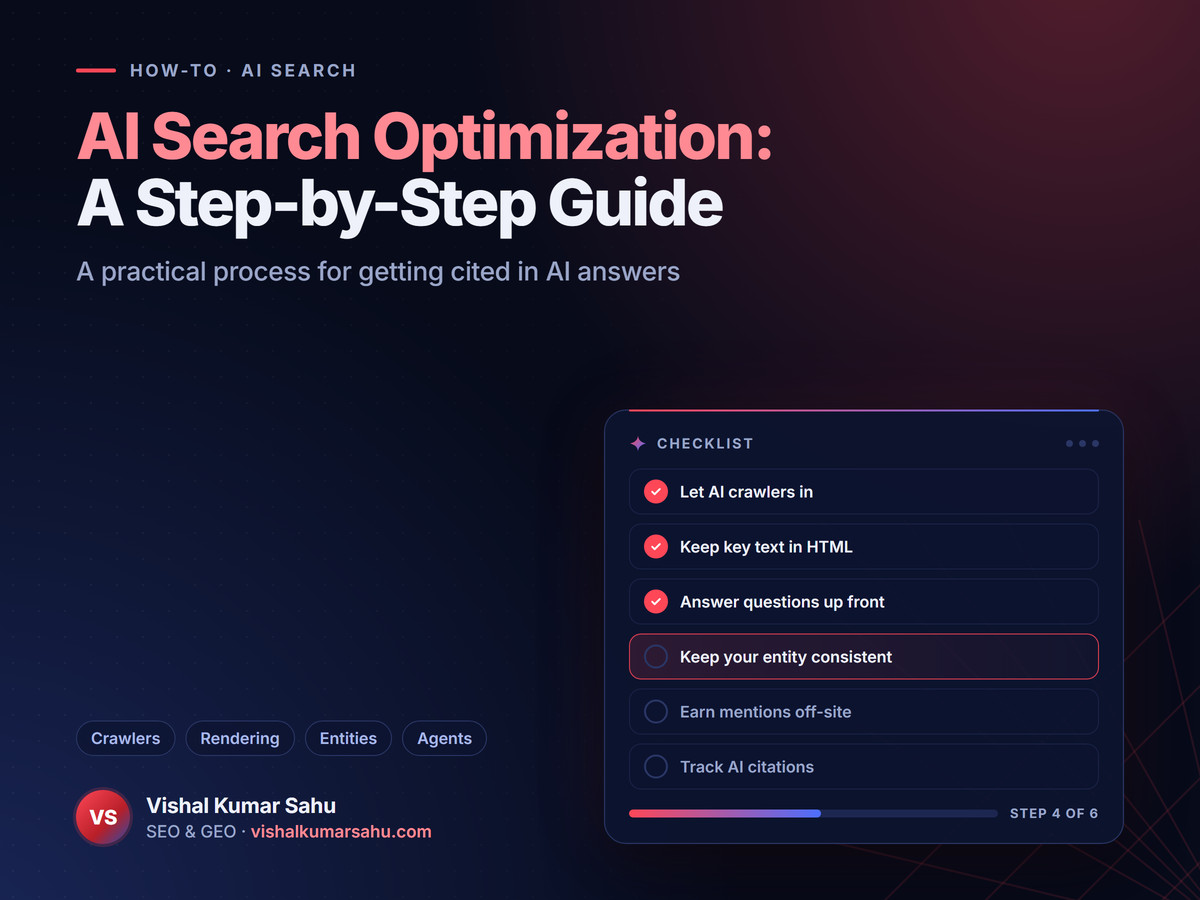
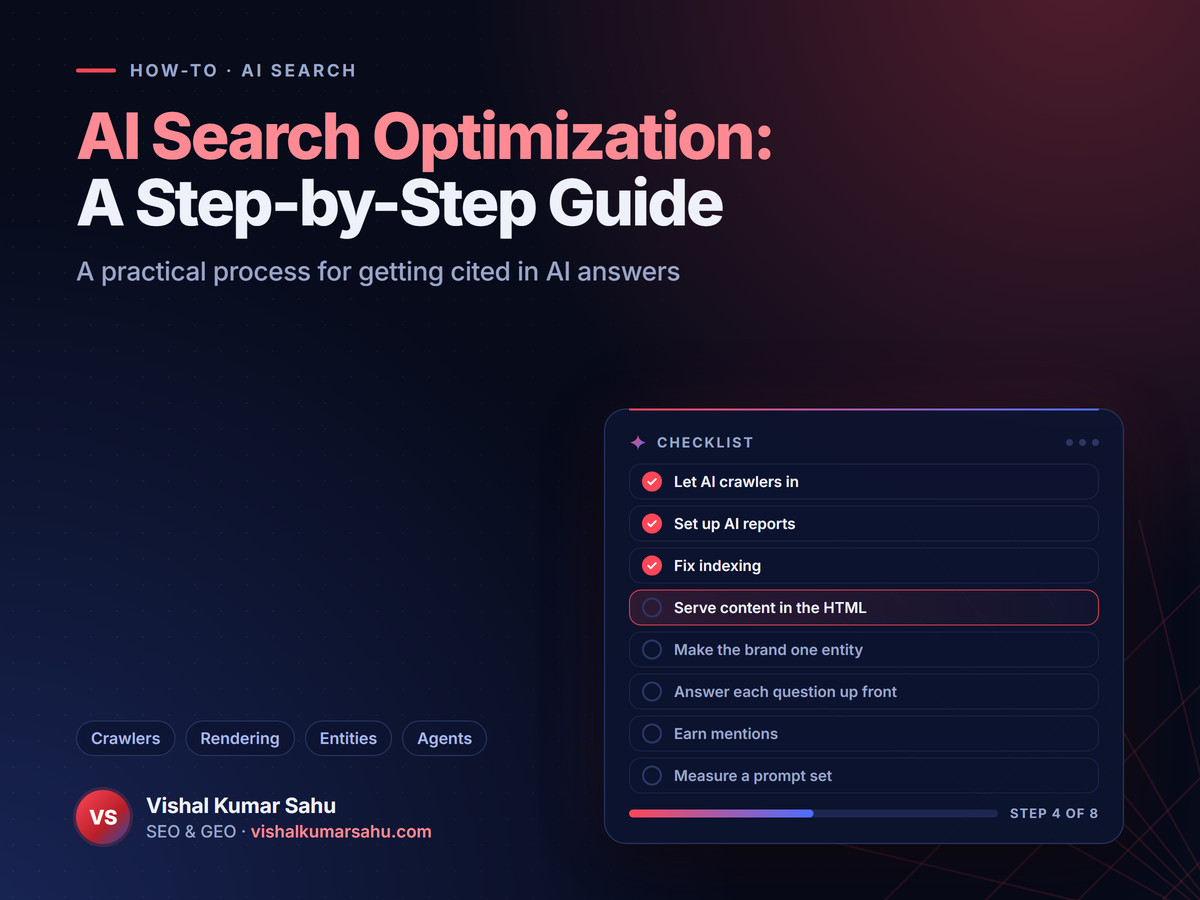
Fix issues found in the go-live audit of the AI search cluster
- Post 4: social and structured-data images now show all eight steps
- Post 7: Scrunch tracks nine platforms including Grok, Ahrefs and
  Semrush do describe how they collect answers, AthenaHQ's engine count
  matches its own page, Profound's coverage is attributed to Profound
- Post 4: URL Inspection shows rendered HTML, the 24-hour robots.txt
  figure is no longer a crawl deadline, small sites may not see Google's
  AI report yet, and prompt runs match post 6's cadence
- Posts 1 and 3: llms.txt wording, a self-contained FAQ answer, a
  grammatical anchor and Microsoft's list labelled correctly
- Posts 1, 3, 4 and 6: short direct answers under each H2
- Post 5: crawler IP list links are explicit https links
- Blog: in-site links open posts at the top (data-scroll-behavior) and
  the selected tag filter meets contrast in dark mode
- llms.txt: not every case study has numbers

Changed region(s): [[0.5242, 0.5289, 0.925, 0.8711], [0.5242, 0.4356, 0.925, 0.4978]]

diff --git a/app/data/posts/ai-search-optimization.ts b/app/data/posts/ai-search-optimization.ts
@@ -10,7 +10,7 @@ export const aiSearchOptimization: BlogPost = {
   excerpt:
     "AI search optimization in 8 steps: crawler access, Google and Bing AI reports, indexing, entity schema and prompts, each with a check, plus agentic SEO.",
   summary:
-    "AI search optimization is the work of making a site and brand easy for Google AI Overviews and AI Mode, ChatGPT search, Perplexity and Microsoft Copilot to crawl, understand and cite. The process takes eight steps, each with a check that it worked, from letting AI crawlers past your CDN to measuring a fixed set of prompts monthly.",
+    "AI search optimization is the work of making a site and brand easy for Google AI Overviews and AI Mode, ChatGPT search, Perplexity and Microsoft Copilot to crawl, understand and cite. The process takes eight steps, each with a check that it worked, from letting AI crawlers past your CDN to measuring a fixed prompt set over repeated runs.",
   content: `
 When LambdaTest became TestMu AI, I ran the SEO for [the rebrand](/seo#rebrand-seo-migration): redirect maps, sitemap and robots.txt cleanup, Organization schema, and updated profiles on Wikidata, G2, LinkedIn and GitHub so the old name and the new one resolve to the same company.
 
@@ -30,13 +30,13 @@ You optimize for AI search in eight steps: let AI crawlers in, set up Google's a
 
 | Step | Where you do it | How to check it worked |
 | --- | --- | --- |
-| 1. Let AI crawlers in | robots.txt, plus your CDN or firewall (in Cloudflare: Security > Settings > AI Crawler and Agent access policies) | Server logs show OAI-SearchBot and PerplexityBot getting 200 responses from IPs on their published lists within about 24 hours of a robots.txt change |
-| 2. Set up Google's and Bing's AI reports | Search Console: Settings > Search generative AI, then the Generative AI performance report; Bing Webmaster Tools: AI Performance; an IndexNow key file | The Search generative AI control includes your site, both AI reports show data, and IndexNow returns HTTP 200 |
+| 1. Let AI crawlers in | robots.txt, plus your CDN or firewall (in Cloudflare: Security > Settings > AI Crawler and Agent access policies) | Server logs show OAI-SearchBot and PerplexityBot getting 200 responses from IPs on their published lists (OpenAI's and Perplexity's systems can take up to about 24 hours to reflect a robots.txt change) |
+| 2. Set up Google's and Bing's AI reports | Search Console: Settings > Search generative AI, then the Generative AI performance report; Bing Webmaster Tools: AI Performance; an IndexNow key file | The Search generative AI control includes your site, both AI reports show data (a site with few AI impressions may not see Google's report yet), and IndexNow returns HTTP 200 |
 | 3. Fix indexing | Search Console's page indexing report and URL Inspection, plus a site crawler | The Google-selected canonical matches yours, and each old URL reaches its final page in one redirect |
 | 4. Serve content in the HTML | Server rendering or static generation in your framework | Key sentences appear in the raw HTML with JavaScript off, and URL Inspection's live test screenshot shows them |
 | 5. Make the brand one entity | Organization markup on the home or about page; Wikidata, G2, LinkedIn and GitHub | The Rich Results Test shows no critical errors, and AI answers describe your brand, and any former name, as one company |
 | 6. Answer each question up front | The pages with the most AI impressions or citations | The first two sentences under each heading answer that heading's question on their own |
-| 7. Earn mentions | Domains cited for your prompts, such as forums and review sites | Monthly re-runs show whether those sources now mention you |
+| 7. Earn mentions | Domains cited for your prompts, such as forums and review sites | Repeated runs, compared month over month, show whether those sources now mention you |
 | 8. Measure a prompt set | A spreadsheet or tracker, plus Search Console and Bing Webmaster Tools | The share of runs that mention or cite you, compared month over month |
 
 Sources: [OpenAI](https://developers.openai.com/api/docs/bots), [Perplexity](https://docs.perplexity.ai/docs/resources/perplexity-crawlers), [Cloudflare](https://developers.cloudflare.com/bots/additional-configurations/block-ai-bots/), [Search Console](https://support.google.com/webmasters/answer/16908024), [Bing Webmaster Tools](https://blogs.bing.com/webmaster/2026/2/Introducing-AI-Performance-in-Bing-Webmaster-Tools-Public-Preview/), [IndexNow](https://www.indexnow.org/documentation), [URL Inspection](https://support.google.com/webmasters/answer/9012289), [Google's Organization markup](https://developers.google.com/search/docs/appearance/structured-data/organization).
@@ -55,7 +55,7 @@ In Search Console, open [Settings > Search generative AI](https://support.google
 
 Bing Webmaster Tools' [AI Performance report](https://blogs.bing.com/webmaster/2026/2/Introducing-AI-Performance-in-Bing-Webmaster-Tools-Public-Preview/) shows how often your content is cited in Microsoft Copilot, AI-generated summaries in Bing and select partner integrations. IndexNow notifies participating search engines when content is added, updated or removed, which Microsoft says "helps keep information fresh across search and AI experiences." Set up [IndexNow](https://www.indexnow.org/documentation) with a CMS plugin, which its [FAQ](https://www.indexnow.org/faq) says to check for first, or with a key file; Google isn't a listed endpoint, so keep sitemaps in Search Console.
 
-You're set up when the Search generative AI control includes your site and both AI reports show data. An IndexNow HTTP 200 only means the URL was received.
+You're set up when the Search generative AI control includes your site and both AI reports show data. Google says a missing report usually means too few impressions in its AI features. An IndexNow HTTP 200 only means the URL was received.
 
 ### Step 3: Fix canonicals, noindex tags and redirect chains
 
@@ -71,7 +71,7 @@ In [Vercel's December 2024 analysis](https://vercel.com/blog/the-rise-of-the-ai-
 
 Server-render the main content, titles and descriptions, and menus, as Vercel advises. At TestMu AI, 51 free-tool pages launched with no body copy, and I wrote their content and schema.
 
-To check, find your key sentences in the raw HTML or with JavaScript turned off. In URL Inspection, run a live test and open View tested page for a screenshot of the rendered page and the raw HTML.
+To check, find your key sentences in the raw HTML or with JavaScript turned off. In URL Inspection, a live test's View tested page shows the page as Google rendered it, including content added by JavaScript.
 
 ### Step 5: Make your brand one entity
 
@@ -93,9 +93,9 @@ Test each section by reading its first two sentences alone, then compare those p
 
 List the domains AI answers cite for your prompts, then take part there genuinely and keep review profiles current; Google warns that seeking inauthentic mentions "isn't as helpful as it might seem." In [Ahrefs' November 2026 study](https://ahrefs.com/blog/mention-types-ai-visibility/), Reddit was the strongest signal (a Spearman correlation of about 0.75 with AI mentions), and brands with 10x more webpage mentions got 3.7x more AI mentions, though Ahrefs says it can't show that mentions cause AI visibility.
 
-Step 8's monthly prompt runs show whether those sources start to mention you.
+Step 8's prompt runs show whether those sources start to mention you.
 
-### Step 8: Measure a fixed prompt set monthly
+### Step 8: Measure a fixed prompt set over repeated runs
 
 A prompt set is a fixed list of buyer questions you run through ChatGPT, Perplexity and other AI engines on a schedule. My keyword pipeline for TestMu AI cut 1,652 keywords from 19 competitor domains to 14 topic clusters and 40 quick wins, and a prompt set needs the same narrowing. My [AI visibility](/blogs/ai-visibility) guide shows how to build the set and what to measure, and my [GEO tools](/blogs/geo-tools) post compares trackers.
 
@@ -133,7 +133,9 @@ Run Lighthouse's experimental [Agentic Browsing](https://developer.chrome.com/do
 
 ## Where should you start with AI search optimization?
 
-Start AI search optimization with the settings that can block everything else: the AI crawler rules in your CDN or firewall, and the Search generative AI control in Search Console. Then run URL Inspection on, say, your ten most important pages, and write a starting set of 20 to 30 buyer prompts. Run each prompt a few times in ChatGPT, Perplexity and Google AI Mode, and note every cited domain. Rewrite pages after that, starting with the ones you expected those prompts to cite.
+Start AI search optimization with the settings that can block everything else: the AI crawler rules in your CDN or firewall, and the Search generative AI control in Search Console.
+
+Then run URL Inspection on, say, your ten most important pages, and write a starting set of 20 to 30 buyer prompts. Run each prompt a few times in ChatGPT, Perplexity and Google AI Mode, and note every cited domain. Rewrite pages after that, starting with the ones you expected those prompts to cite.
 `.trim(),
   tags: ["AI Search", "SEO", "GEO"],
   readingTime: "12 min read",
@@ -149,7 +151,7 @@ Start AI search optimization with the settings that can block everything else: t
     {
       question: "How do I optimize for AI search?",
       answer:
-        "To optimize a site for AI search, start with access: let OAI-SearchBot, PerplexityBot, Googlebot and Bingbot through robots.txt and your CDN, fix canonicals and redirects, and keep main content in the server HTML. Then keep brand details consistent, answer questions up front, earn genuine mentions and track a fixed prompt set monthly.",
+        "To optimize a site for AI search, start with access: let OAI-SearchBot, PerplexityBot, Googlebot and Bingbot through robots.txt and your CDN, fix canonicals and redirects, and keep main content in the server HTML. Then keep brand details consistent, answer questions up front, earn genuine mentions and track a fixed prompt set over repeated runs.",
     },
     {
       question: "What is AI search optimization called?",

diff --git a/app/data/posts/geo-tools.ts b/app/data/posts/geo-tools.ts
@@ -35,8 +35,8 @@ AI visibility tools send your prompts to each AI engine on a schedule, through t
 | Peec AI | "UI scraping" that reflects "the reality for a logged-out user" | "once every 24 hours" |
 | Scrunch | "browser automation and official platform APIs" | Daily for a new prompt's first 14 days, then every 72 hours by default |
 | Conductor | "official LLM APIs" | Not stated on the linked page |
-| Ahrefs Brand Radar | Not stated on the linked page | Index "re-tested monthly on a 90-day reporting window"; custom prompts daily, weekly or monthly |
-| Semrush AI Visibility Toolkit | Not stated on the linked page | Prompt Tracking daily; Brand Performance reports weekly |
+| Ahrefs Brand Radar | Runs prompts "through each AI platform and stores the responses"; also tracks searches that "trigger an AI answer inside Google Search"; browser or API not stated | Index "re-tested monthly on a 90-day reporting window"; custom prompts daily, weekly or monthly |
+| Semrush AI Visibility Toolkit | Brand Performance reports run "a vast collection of common queries" through "LLMs like ChatGPT and Google's AI Mode"; browser or API not stated | Prompt Tracking daily; Brand Performance reports weekly |
 | Similarweb AI Citation Analysis | Not stated on the linked page | Citations tracked daily |
 
 Sources: [Profound](https://www.tryprofound.com/features/answer-engine-insights), [SE Visible](https://visible.seranking.com/), [Peec AI docs](https://docs.peec.ai/intro-to-peec-ai), [Peec AI](https://peec.ai/geo-report), [Scrunch](https://scrunch.com/faqs/what-methods-does-scrunch-use-to-collect-data-from-ai-platforms), [Conductor](https://www.conductor.com/lp/enterprise-ai-visibility-optimization/), [Ahrefs](https://ahrefs.com/brand-radar), [Semrush](https://www.semrush.com/kb/1493-ai-visibility-toolkit), [Similarweb](https://aisearch.similarweb.com/ai-brand-visibility/citation-analysis/).
@@ -61,8 +61,8 @@ The table leaves out prices; check current pricing on each paid tool's site.
 | Profound | Dedicated tracker | Daily prompt tracking across many engines | ChatGPT, Perplexity, Claude, Google AI Overviews, Google AI Mode, Google Gemini, Exa, Muse Spark, Qwen, DeepSeek | Visibility score, share of voice, sentiment, citation sources, competitor rankings | Free trial |
 | Peec AI | Dedicated tracker | A long list of engines and Looker Studio reports | ChatGPT, Perplexity, Gemini, AI Overviews, AI Mode, Copilot, Claude, Grok, DeepSeek, Muse Spark, Mistral, Qwen, Naver AI Briefing | Visibility (share of chats naming you), position | Free GEO report; 7-day trial |
 | OtterlyAI | Dedicated tracker | Prompt tracking plus free utilities and a public API | ChatGPT, AI Overviews, AI Mode, Gemini, Claude, Perplexity, Copilot | Brand mentions, website citations | 7-day trial; free tools |
-| Scrunch | Dedicated tracker | Full answer text and aggregated metrics by API | ChatGPT, Perplexity, Gemini, Claude, AI Mode, AI Overviews, Copilot, Meta AI | Brand presence, sentiment, citations | 7-day trial |
-| AthenaHQ | Dedicated tracker | Starting on a free tier | All plans: ChatGPT, Perplexity, Gemini, AI Overviews, Copilot; paid plans add AI Mode, Claude, Grok, DeepSeek, Meta AI | Prompt and response analysis, sources, competitor insights | Free Essential plan |
+| Scrunch | Dedicated tracker | Full answer text and aggregated metrics by API | ChatGPT, Perplexity, Gemini, Claude, AI Mode, AI Overviews, Copilot, Grok, Meta AI | Brand presence, sentiment, citations | 7-day trial |
+| AthenaHQ | Dedicated tracker | Starting on a free tier | All plans: ChatGPT, Perplexity, Gemini, AI Overviews, Copilot; paid plans add AI Mode, Claude, Grok, DeepSeek, Meta AI (FAQ; the Starter plan card also lists Mistral) | Prompt and response analysis, sources, competitor insights | Free Essential plan |
 | Conductor | Enterprise platform | AI visibility next to web analytics and traditional search data | ChatGPT, Perplexity, Claude, Gemini, Google AI Overviews (through official APIs) | Mentions, citations, sentiment, traffic through GA4 or Adobe | Free AI Visibility Analysis; 3-week trial |
 | BrightEdge AI Catalyst | Enterprise platform | Mentions and citations reported separately | ChatGPT, Perplexity, AI Overviews, AI Mode, Gemini "and other AI platforms" | Mentions Presence, Citations Presence, competitor benchmarks | None stated |
 
@@ -102,7 +102,7 @@ Profound, Peec AI, OtterlyAI, Scrunch and AthenaHQ are LLM tracking tools built 
 
 ### Profound
 
-Profound, the tracker I set up for TestMu AI, queries ten AI platforms, from ChatGPT and Perplexity to Qwen and DeepSeek. Its [Answer Engine Insights](https://www.tryprofound.com/features/answer-engine-insights) page lists "visibility scores and share of voice, brand sentiment and keyword themes, citation sources and their authority, and competitor rankings," with CSV export, and [Agent Analytics](https://www.tryprofound.com/features/agent-analytics) tracks "when, how often, and which AI bots access your content."
+Profound, the tracker I set up for TestMu AI, says it queries ten AI platforms, from ChatGPT and Perplexity to Qwen and DeepSeek. Its [Answer Engine Insights](https://www.tryprofound.com/features/answer-engine-insights) page lists "visibility scores and share of voice, brand sentiment and keyword themes, citation sources and their authority, and competitor rankings," with CSV export, and [Agent Analytics](https://www.tryprofound.com/features/agent-analytics) tracks "when, how often, and which AI bots access your content."
 
 ### Peec AI
 
@@ -114,11 +114,11 @@ Profound, the tracker I set up for TestMu AI, queries ten AI platforms, from Cha
 
 ### Scrunch
 
-Scrunch tracks brand presence on [eight AI platforms](https://scrunch.com/faqs/which-ai-platforms-and-llms-can-scrunch-track-and-monitor), including Meta AI, and [says it](https://scrunch.com/faqs/how-accurate-is-scrunch-at-tracking-brand-presence-across-llms) counts only "explicit brand mentions," so a citation alone doesn't register as a mention. Its [responses API](https://scrunch.com/faqs/what-apis-does-scrunch-offer-and-how-do-they-work) returns the full text of each AI answer, with citations, competitor presence and metadata.
+Scrunch tracks brand presence on [nine AI platforms](https://scrunch.com/faqs/which-ai-platforms-and-llms-can-scrunch-track-and-monitor), including Grok and Meta AI, and [says it](https://scrunch.com/faqs/how-accurate-is-scrunch-at-tracking-brand-presence-across-llms) counts only "explicit brand mentions," so a citation alone doesn't register as a mention. Its [responses API](https://scrunch.com/faqs/what-apis-does-scrunch-offer-and-how-do-they-work) captures "full AI answers, citations, sentiment, competitors, and metadata" for every prompt run.
 
 ### AthenaHQ
 
-[AthenaHQ](https://athenahq.ai/) has a free Essential plan with prompt and response analysis and competitor insights, while paid plans add five engines, including Google AI Mode and Claude. AthenaHQ says it "tells you what to fix." API access is a paid add-on.
+[AthenaHQ](https://athenahq.ai/) has a free Essential plan with prompt and response analysis and competitor insights, while paid plans add engines including Google AI Mode and Claude. AthenaHQ says it "tells you what to fix." API access is a paid add-on.
 
 ## Which AI visibility platforms suit enterprise teams?
 
@@ -136,7 +136,7 @@ Conductor and BrightEdge suit enterprise teams that want AI visibility inside a 
 
 Choose an AI visibility tool by testing, during a trial, which engines your plan covers, how often prompts rerun, whether mentions and citations are counted separately, how answers are collected and what you can export.
 
-1. Check the engines on your plan. AthenaHQ adds five engines only on paid plans, SE Visible's FAQ and plan list disagree on Claude and Copilot, and Semrush's engine list differs by product.
+1. Check the engines on your plan. AthenaHQ adds Google AI Mode, Claude and other engines only on paid plans, SE Visible's FAQ and plan list disagree on Claude and Copilot, and Semrush's engine list differs by product.
 2. Ask how often prompts rerun: daily for Profound, SE Visible, Peec AI and Semrush's Prompt Tracking, and monthly for Ahrefs' prebuilt index.
 3. Check whether mentions and citations get their own numbers; [Ahrefs](https://ahrefs.com/ai-visibility-checker) says "Brand Radar tracks both separately." Merged counts hide ghost citations (links in answers that never name the brand), which made up 61.7% of 3,981 domain appearances across 115 prompts in a [June 2026 Semrush and Growth Memo study](https://www.semrush.com/blog/the-ghost-citations-study/).
 4. Give share metrics more weight than position. Semrush, Peec AI, SE Visible and [Profound](https://docs.tryprofound.com/answer-engine-insights/about) all report a position metric, though Profound [also says](https://www.tryprofound.com/features/answer-engine-insights) "AI platforms don't return the same answer twice." Read any position next to your [share of runs](/blogs/ai-visibility).

diff --git a/app/data/posts/what-is-aeo.ts b/app/data/posts/what-is-aeo.ts
@@ -22,7 +22,9 @@ Much of what Google and Microsoft now say about AI answers repeats featured-snip
 
 ## What is AEO (answer engine optimization)?
 
-Answer engine optimization (AEO) is the practice of structuring content so search engines and AI assistants can use it as the direct answer to a question. An answer engine is a search system that replies to a question directly, usually linking to its source. Answer engines include ChatGPT search, Perplexity, Microsoft Copilot and Google Search, which answers questions in featured snippets, AI Overviews (AI-written summaries above some results) and AI Mode (Google's chat-style search).
+Answer engine optimization (AEO) is the practice of structuring content so search engines and AI assistants can use it as the direct answer to a question. An answer engine is a search system that replies to a question directly, usually linking to its source.
+
+Answer engines include ChatGPT search, Perplexity, Microsoft Copilot and Google Search, which answers questions in featured snippets, AI Overviews (AI-written summaries above some results) and AI Mode (Google's chat-style search).
 
 [Wikipedia's article](https://en.wikipedia.org/wiki/Generative_engine_optimization) on generative engine optimization (November 12, 2026 revision) says usage "varies across practitioners, vendors, and publications, with no consensus definition." [Google's 2026 guide](https://developers.google.com/search/docs/fundamentals/ai-optimization-guide) to its generative AI features calls AEO and GEO "terms you may see used to describe work specifically focused on improving visibility in AI search experiences." The table compares how five sources describe AEO and relate it to GEO.
 
@@ -42,7 +44,9 @@ In customs, AEO means Authorised Economic Operator. The [EU's AEO programme](htt
 
 ## Is AEO the same as GEO?
 
-AEO and GEO mostly describe the same work in 2026. Wikipedia treats AEO as another name for [generative engine optimization](/blogs/generative-engine-optimization) (GEO), the practice of improving visibility in AI-generated answers, and Profound calls the two "the same thing". One Microsoft Advertising retail guide defined AEO for AI agents and assistants and GEO for generative AI search, though its [later edition](https://about.ads.microsoft.com/content/dam/sites/msa-about/global/common/content-lib/pdf/from-discovery-to-influence-a-guide-to-geo.pdf), retitled "A guide to GEO," drops AEO. My [GEO vs SEO](/blogs/geo-vs-seo) post compares all three terms side by side.
+AEO and GEO mostly describe the same work in 2026.
+
+Wikipedia treats AEO as another name for [generative engine optimization](/blogs/generative-engine-optimization) (GEO), the practice of improving visibility in AI-generated answers, and Profound calls the two "the same thing". One Microsoft Advertising retail guide defined AEO for AI agents and assistants and GEO for generative AI search, though its [later edition](https://about.ads.microsoft.com/content/dam/sites/msa-about/global/common/content-lib/pdf/from-discovery-to-influence-a-guide-to-geo.pdf), retitled "A guide to GEO," drops AEO. My [GEO vs SEO](/blogs/geo-vs-seo) post compares all three terms side by side.
 
 ## Where did answer engine optimization come from?
 
@@ -82,7 +86,7 @@ Google's 2026 guide says "optimizing for generative AI search is optimizing for 
 
 ## How do you optimize content for answer engines?
 
-Optimize content for answer engines by answering each question in one or two sentences right under a heading that asks it, then adding a list or table where one fits. [Microsoft's checklist](https://about.ads.microsoft.com/en/blog/post/october-2025/optimizing-your-content-for-inclusion-in-ai-search-answers) for featured snippets in AI search asks for "concise answers," "structured formatting," "strong headings" and "self-contained phrasing."
+Optimize content for answer engines by answering each question in one or two sentences right under a heading that asks it, then adding a list or table where one fits. [Microsoft's list](https://about.ads.microsoft.com/en/blog/post/october-2025/optimizing-your-content-for-inclusion-in-ai-search-answers) of what makes content eligible for featured snippets in AI search asks for "concise answers," "structured formatting," "strong headings" and "self-contained phrasing."
 
 1. Collect the questions people ask: People Also Ask boxes, where Google says featured snippets can also appear, plus Search Console queries and questions from sales and support calls.
 2. Turn each question into a heading. Microsoft's example swaps a vague "Learn More" for "What Makes This Dishwasher Quieter Than Most Models?"
@@ -103,9 +107,9 @@ Google's [speakable documentation](https://developers.google.com/search/docs/app
 
 ## Where should you start with AEO?
 
-Start AEO with the questions your pages already get impressions for. If a colleague asks "what is AEO", walk them through this check on your own pages.
+Start AEO with the questions your pages already get impressions for, and check which pages Google quotes or links to when it answers each one.
 
-In Google Search Console, pick queries phrased as questions and match each one to the page that should answer it. Search each question on Google and note whether a featured snippet or an AI Overview appears and which pages it links to. Where another page is quoted or linked instead of yours, compare its opening with the first two sentences under your matching heading. Then check that your page's snippet controls aren't keeping it out.
+In Google Search Console, pick queries phrased as questions and match each one to the page that should answer it. Search each question on Google, for example "what is AEO", and note whether a featured snippet or an AI Overview appears and which pages it links to. Where another page is quoted or linked instead of yours, compare its opening with the first two sentences under your matching heading. Then check that your page's snippet controls aren't keeping it out.
 
 Search Console's [generative AI performance report](https://developers.google.com/search/blog/2026/06/gen-ai-performance-reports) shows your impressions in AI Overviews and AI Mode. To track ChatGPT and Perplexity answers over repeated runs, see my guide to [AI visibility](/blogs/ai-visibility), and my comparison of [GEO tools](/blogs/geo-tools) covers the trackers.
 `.trim(),
@@ -116,7 +120,7 @@ Search Console's [generative AI performance report](https://developers.google.co
     "The term AEO was in use by February 2018, when Search Engine Watch described it as the strategy for voice-driven \"answer engines\".",
     "Google stopped showing How-to rich results in September 2023 and FAQ rich results on May 7, 2026, so HowTo and FAQPage markup no longer earn a visible result.",
     "In Google, featured snippets and AI Overview or AI Mode links both require a page that is eligible to show a snippet, so nosnippet, data-nosnippet and max-snippet apply to each.",
-    "Google calls optimizing for generative AI search \"still SEO\", and Microsoft's checklist for featured snippets in AI search asks for concise answers, lists and tables, strong headings and self-contained sentences.",
+    "Google calls optimizing for generative AI search \"still SEO\", and Microsoft's list of what makes content eligible for featured snippets in AI search asks for concise answers, lists and tables, strong headings and self-contained sentences.",
   ],
   faqs: [
     {

diff --git a/app/data/posts/generative-engine-optimization.ts b/app/data/posts/generative-engine-optimization.ts
@@ -20,7 +20,9 @@ The gap between those two numbers is the shortest explanation of generative engi
 
 ## What is generative engine optimization?
 
-Generative engine optimization (GEO) is the work of shaping your pages, and what the rest of the web says about your brand, so that AI systems find your information and cite or mention you in their answers. A generative engine is an AI system that searches for information and writes its own answer from several sources. ChatGPT search, Perplexity, Microsoft Copilot, Gemini and two Google features work this way: AI Overviews, the AI-written summaries above some Google results, and AI Mode, Google's chat-style search.
+Generative engine optimization (GEO) is the work of shaping your pages, and what the rest of the web says about your brand, so that AI systems find your information and cite or mention you in their answers.
+
+A generative engine is an AI system that searches for information and writes its own answer from several sources. ChatGPT search, Perplexity, Microsoft Copilot, Gemini and two Google features work this way: AI Overviews, the AI-written summaries above some Google results, and AI Mode, Google's chat-style search.
 
 The term was introduced in a paper first posted in November 2023, [GEO: Generative Engine Optimization](https://arxiv.org/abs/2311.09735), by Pranjal Aggarwal and five co-authors. The revised version, [published at KDD 2024](https://doi.org/10.1145/3637528.3671900), describes GEO as "a new paradigm where content creators aim to increase their visibility (or impression) in generative engine responses." Microsoft uses the term too, calling its Bing Webmaster Tools report on Copilot citations ["an early step toward Generative Engine Optimization (GEO) tooling."](https://blogs.bing.com/webmaster/2026/2/Introducing-AI-Performance-in-Bing-Webmaster-Tools-Public-Preview/)
 
@@ -94,9 +96,11 @@ For a B2B company the loss is hard to spot. A buyer asks ChatGPT for the best cr
 
 ## Is GEO the same as SEO or AEO?
 
-GEO is not the same as SEO or AEO, but it builds on both. Google's position is that, for its own results, "optimizing for generative AI search is optimizing for the search experience, and thus still SEO." ChatGPT search and Perplexity also crawl and search the web before they answer, so pages they can crawl and index start ahead. The differences are in the goal (cited rather than ranked) and the unit that competes (a passage more than a page), which I compare side by side in my post on [GEO vs SEO](/blogs/geo-vs-seo).
+GEO is not the same as SEO or AEO, but it builds on both. Google's position is that, for its own results, "optimizing for generative AI search is optimizing for the search experience, and thus still SEO."
 
-Answer engine optimization (AEO) is an older term for winning direct answers such as featured snippets and voice results. Many teams now use AEO and GEO interchangeably; my guide to [what is AEO](/blogs/what-is-aeo) explains where they differ.
+ChatGPT search and Perplexity also crawl and search the web before they answer, so pages they can crawl and index start ahead. The differences are in the goal (cited rather than ranked) and the unit that competes (a passage more than a page), which I compare side by side in my post on [GEO vs SEO](/blogs/geo-vs-seo).
+
+Answer engine optimization (AEO) is an older term for winning direct answers such as featured snippets and voice results. Many teams now use AEO and GEO interchangeably; my answer to "[what is AEO](/blogs/what-is-aeo)" explains where they differ.
 
 ## What does GEO work look like in practice?
 
@@ -123,12 +127,14 @@ The most common GEO mistakes are blocking AI crawlers by accident, expecting llm
 
 ## Where should you start with GEO?
 
-Start generative engine optimization by finding out where your brand already appears in AI answers. Pick ten questions your buyers would ask, run them in ChatGPT, Perplexity and Google's AI Overviews or AI Mode, and note every domain that gets cited. Check that robots.txt and your CDN let the AI crawlers in. Then rewrite the top of your most important page so its first two sentences answer its main question.
+Start generative engine optimization by finding out where your brand already appears in AI answers.
+
+Pick ten questions your buyers would ask, run them in ChatGPT, Perplexity and Google's AI Overviews or AI Mode, and note every domain that gets cited. Check that robots.txt and your CDN let the AI crawlers in. Then rewrite the top of your most important page so its first two sentences answer its main question.
 
 That small test shows which sources the engines trust in your category and whether you are one of them.
 `.trim(),
   tags: ["GEO", "AI Search", "SEO"],
-  readingTime: "13 min read",
+  readingTime: "14 min read",
   featured: true,
   keyTakeaways: [
     "Generative engine optimization (GEO) is the practice of getting your content found and cited by AI systems such as ChatGPT, Perplexity and Google AI Overviews.",
@@ -161,12 +167,12 @@ That small test shows which sources the engines trust in your category and wheth
     {
       question: "Do you need llms.txt or special markup for GEO?",
       answer:
-        "No. Google says you don't need AI text files or special schema.org markup for its AI features and that Google Search ignores llms.txt, and OpenAI's and Perplexity's crawler docs don't mention it. Structured data is still worth using for rich results if it matches what is visible on the page.",
+        "No. Google says you don't need AI text files or special schema.org markup for its AI features and that Google Search ignores llms.txt, and OpenAI's and Perplexity's crawler docs don't say their crawlers use it. Structured data is still worth using for rich results if it matches what is visible on the page.",
     },
     {
       question: "Can small websites compete in GEO?",
       answer:
-        "Possibly. The original study only tested pages already in Google's top five, but the lower-ranked ones gained the most: with Cite Sources applied to all five, the fifth-ranked page's visibility rose 115.1% while the top-ranked page's fell 30.3% on average. The authors read this as an opening for small creators and independent businesses.",
+        "Possibly. The 2023 GEO paper (KDD 2024) only tested pages already in Google's top five, but the lower-ranked ones gained the most: when its Cite Sources method, which adds relevant citations from credible sources, was applied to all five, the fifth-ranked page's visibility rose 115.1% while the top-ranked page's fell 30.3% on average. The authors read this as an opening for small creators and independent businesses.",
     },
     {
       question: "How do you measure GEO?",

diff --git a/app/data/posts/ai-visibility.ts b/app/data/posts/ai-visibility.ts
@@ -87,7 +87,9 @@ Choose prompts for AI search tracking from the questions your buyers ask, groupe
 
 ## Why do AI answers change from day to day?
 
-AI answers change from day to day because each run generates a fresh response: the engine often searches the web differently and cites other pages. In [Ahrefs' October 2026 study](https://ahrefs.com/blog/how-stable-are-ai-citations/) of about 37,500 citations tracked for 20 days across five AI tools, at least half disappeared by the next day. ChatGPT repeated the previous day's exact searches only 26% of the time, yet Ahrefs says its data "suggests much of the churn happens after the search, when the AI decides which pages to cite." Roughly 75% of the citations that disappeared at least once came back within the 20 days.
+AI answers change from day to day because each run generates a fresh response: the engine often searches the web differently and cites other pages.
+
+In [Ahrefs' October 2026 study](https://ahrefs.com/blog/how-stable-are-ai-citations/) of about 37,500 citations tracked for 20 days across five AI tools, at least half disappeared by the next day. ChatGPT repeated the previous day's exact searches only 26% of the time, yet Ahrefs says its data "suggests much of the churn happens after the search, when the AI decides which pages to cite." Roughly 75% of the citations that disappeared at least once came back within the 20 days.
 
 [SparkToro's study](https://sparktoro.com/blog/new-research-ais-are-highly-inconsistent-when-recommending-brands-or-products-marketers-should-take-care-when-tracking-ai-visibility/) with Patrick O'Donnell of Gumshoe.ai, an AI-tracking startup, had 600 volunteers run 12 prompts through ChatGPT, Claude and Google's AI a combined 2,961 times in November and December 2025. The study found less than a 1 in 100 chance that ChatGPT or Google's AI would give the same list of brands in any two of 100 responses.
 

diff --git a/app/data/posts/llm-seo.ts b/app/data/posts/llm-seo.ts
@@ -62,7 +62,7 @@ Here are each engine's crawler rules and citation figures:
 
 | What to check | ChatGPT | Perplexity |
 | --- | --- | --- |
-| Search crawler to allow | OAI-SearchBot, from the IPs in openai.com/searchbot.json | PerplexityBot, from the IPs in www.perplexity.ai/perplexitybot.json |
+| Search crawler to allow | OAI-SearchBot, from the IPs in [openai.com/searchbot.json](https://openai.com/searchbot.json) | PerplexityBot, from the IPs in [www.perplexity.ai/perplexitybot.json](https://www.perplexity.ai/perplexitybot.json) |
 | User-triggered fetcher | ChatGPT-User; robots.txt rules "may not apply" | Perplexity-User; "generally ignores robots.txt rules" |
 | Training crawler | GPTBot, a separate setting from search | PerplexityBot is "not used to crawl content for AI foundation models" |
 | Time for a robots.txt change to apply | Can take about 24 hours | May take up to 24 hours |

diff --git a/app/blogs/BlogsIndexClient.tsx b/app/blogs/BlogsIndexClient.tsx
@@ -68,7 +68,7 @@ export default function BlogsIndexClient({ posts, tags: allTags }: Props) {
             className="tag-pill cursor-pointer transition-all duration-200"
             style={{
               background: !selectedTag ? "var(--accent)" : "var(--accent-light)",
-              color: !selectedTag ? "white" : "var(--accent)",
+              color: !selectedTag ? "var(--background)" : "var(--accent)",
             }}
           >
             All
@@ -81,7 +81,7 @@ export default function BlogsIndexClient({ posts, tags: allTags }: Props) {
               style={{
                 background:
                   tag === selectedTag ? "var(--accent)" : "var(--accent-light)",
-                color: tag === selectedTag ? "white" : "var(--accent)",
+                color: tag === selectedTag ? "var(--background)" : "var(--accent)",
               }}
             >
               {tag}

diff --git a/app/layout.tsx b/app/layout.tsx
@@ -157,6 +157,7 @@ export default function RootLayout({
     <html
       lang="en"
       data-theme="dark"
+      data-scroll-behavior="smooth"
       className={`${inter.variable} ${jetbrainsMono.variable}`}
       suppressHydrationWarning
     >
